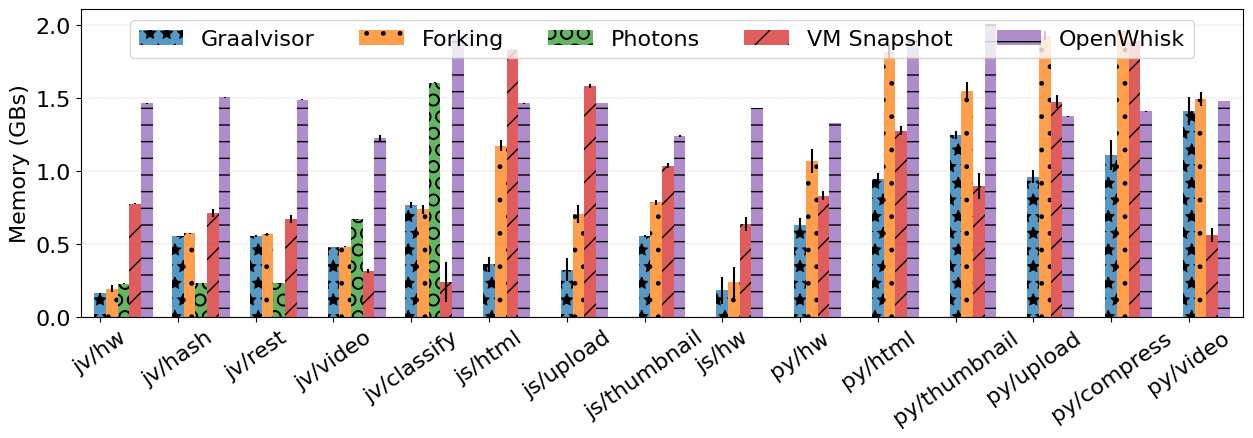
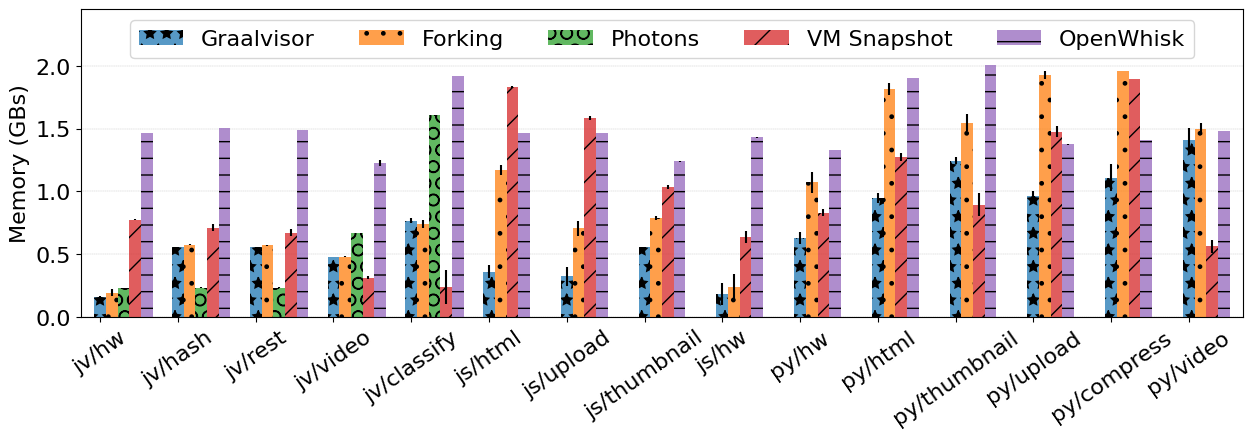
Minor y limit fix on a memory plot.

diff --git a/plots/backups-plots/sandboxes-efficiency-v2/plots/sandboxes-memory.py b/plots/backups-plots/sandboxes-efficiency-v2/plots/sandboxes-memory.py
@@ -75,6 +75,7 @@ ax.set_xticks(x, benchmark_labels)
 ax.set_axisbelow(True)
 plt.grid(axis = 'y', linestyle = '--', linewidth = 0.25)
 plt.xticks(rotation = 35)
+ax.set_ylim(ymax=2.45)
 ax.set_xlim(xmin=-.25, xmax=14.7)
 fig.set_figwidth(15)
 fig.set_figheight(4)
